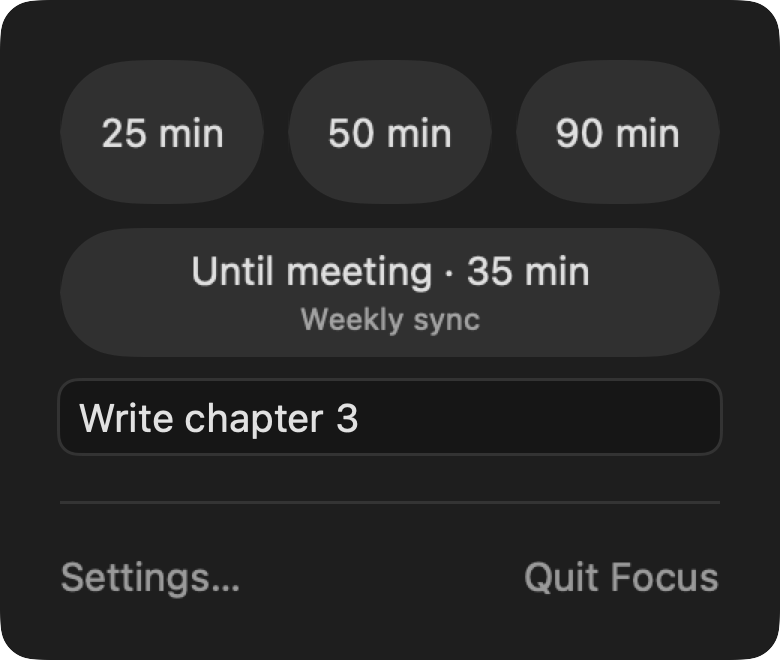
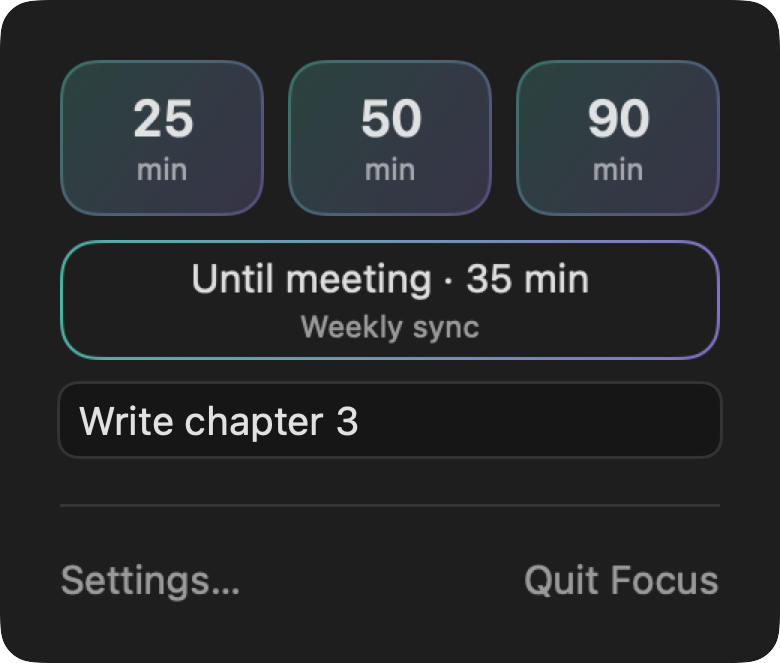
Update pages from focus@8ada7f2

diff --git a/index.html b/index.html
@@ -215,7 +215,7 @@
       <p class="lead">Everything happens in a small menu under the ring in your menu bar. There's no window to keep open.</p>
 
       <article class="step">
-        <figure class="shot panel"><img src="images/1-start.png" width="780" height="660" alt="The Focus menu with buttons for 25, 50 and 90 minutes, an Until meeting button showing 35 minutes until Weekly sync, and a field reading Write chapter 3."></figure>
+        <figure class="shot panel"><img src="images/1-start.png" width="780" height="663" alt="The Focus menu with buttons for 25, 50 and 90 minutes, an Until meeting button showing 35 minutes until Weekly sync, and a field reading Write chapter 3."></figure>
         <div>
           <div class="marker"><svg viewBox="0 0 32 32" aria-hidden="true"><circle class="track" cx="16" cy="16" r="12"/><path class="arc" data-fraction=".3333"/></svg>1 of 3</div>
           <h3>Pick a length</h3>
@@ -225,17 +225,17 @@
       </article>
 
       <article class="step">
-        <figure class="shot panel"><img src="images/2-running.png" width="780" height="615" alt="The Focus menu during a session: 41:27 left of Write chapter 3, with Pause, +5 min and Stop buttons."></figure>
+        <figure class="shot panel"><img src="images/2-running.png" width="780" height="837" alt="The Focus menu during a session: a teal-to-violet ring showing 41:27 left of Write chapter 3, with Pause, +5 min and Stop buttons."></figure>
         <div>
           <div class="marker"><svg viewBox="0 0 32 32" aria-hidden="true"><circle class="track" cx="16" cy="16" r="12"/><path class="arc" data-fraction=".6667"/></svg>2 of 3</div>
           <h3>Get to work</h3>
           <p>The time left counts down next to the icon, like the one at the top of this page. Do Not Disturb turns on while you focus and off again when you stop.</p>
-          <p>Pause, add 5 minutes or stop at any time. A sound and a notification tell you when time's up.</p>
+          <p>Pause, add 5 minutes or stop at any time. A sound, a notification and a burst of confetti from the menu bar tell you when time's up.</p>
         </div>
       </article>
 
       <article class="step">
-        <figure class="shot settings"><img src="images/3-settings.png" width="1380" height="1758" alt="Focus Settings: Focus during sessions and Use calendar are on, meetings come from all calendars, and Block time in calendar adds events to the Exchange Work calendar."></figure>
+        <figure class="shot settings"><img src="images/3-settings.png" width="1380" height="2394" alt="Focus Settings: Focus during sessions and Use calendar are on, meetings come from all calendars, Block time in calendar adds events to the Exchange Work calendar, and Sound and Confetti are on."></figure>
         <div>
           <div class="marker"><svg viewBox="0 0 32 32" aria-hidden="true"><circle class="track" cx="16" cy="16" r="12"/><path class="arc" data-fraction="1"/></svg>3 of 3</div>
           <h3>Fit it to your day</h3>

diff --git a/da/support.md b/da/support.md
@@ -46,6 +46,10 @@ Indstillinger → Kalender → **Vis næste møde i menulinjen** (kræver **Brug
 
 Indstillinger → Kalender → **Bloker tid i kalender** skal være slået til, med en delt kalender (fx din arbejdskalender) valgt. Arbejdskonti kan være lidt om at synkronisere. Vælg under "Når en session slutter", om begivenheden skal afkortes til den tid du fokuserede, eller fjernes.
 
+## Slå lyden eller konfettien fra
+
+Indstillinger → Når tiden er gået → **Lyd** eller **Konfetti**. Notifikationen kommer altid. Focus springer også konfettien over, når "Reducer bevægelse" er slået til (Systemindstillinger → Tilgængelighed → Skærm).
+
 ## Kontakt
 
 [Opret et issue på GitHub](https://github.com/KennethEgholm/focus-app/issues) — spørgsmål, fejl og idéer er alle velkomne.

diff --git a/support.md b/support.md
@@ -46,6 +46,10 @@ Settings → Calendar → **Show next meeting in menu bar** (needs **Use calenda
 
 Settings → Calendar → **Block time in calendar** must be on, with a shared calendar (for example your work calendar) picked. Work accounts can take a moment to sync. Choose under "When a session ends" whether the event is shortened to the time you focused or removed.
 
+## Turn off the sound or the confetti
+
+Settings → When time's up → **Sound** or **Confetti**. The notification always comes. Focus also skips the confetti when "Reduce motion" is on (System Settings → Accessibility → Display).
+
 ## Contact
 
 [Open an issue on GitHub](https://github.com/KennethEgholm/focus-app/issues) — questions, bugs and ideas are all welcome.
